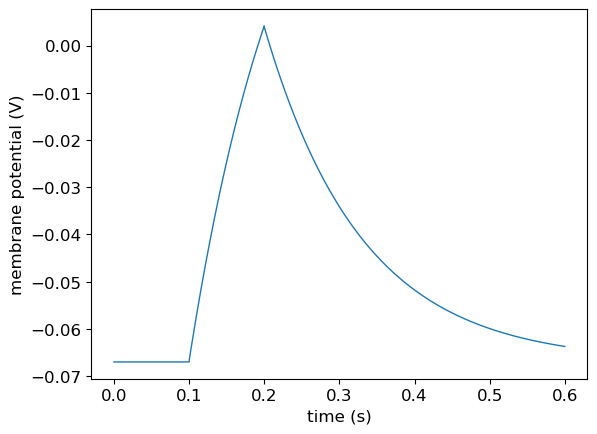
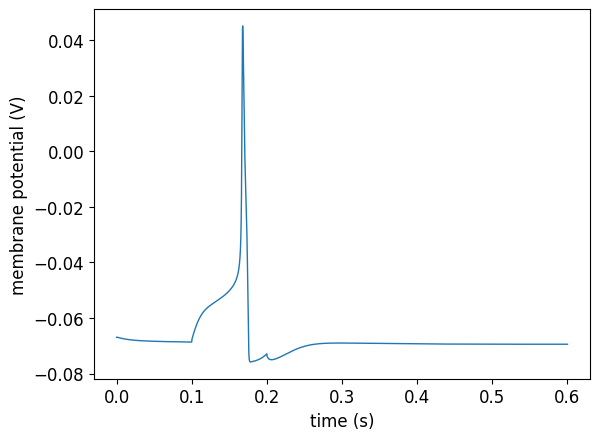
Some changes required to get olm cell to spike
segment groups weren't being constructed properly, the fault of neuron
mapping with use of neurolexids etc. will have to be made easier to use
post cns...
@sanjayankur31 the segment groups used for channel placement should only
be ones that only contain other segmentgroups, which in turn are marked
neuroLexId="sao864921383", which specifies "mapo this segmentgroup to a
neuron section"... messy...
it spikes now though...

diff --git a/source/Userdocs/NML2_examples/olm-example.py b/source/Userdocs/NML2_examples/olm-example.py
@@ -9,7 +9,8 @@ Author: Ankur Sinha <sanjay DOT ankur AT gmail DOT com>
 """
 
 from neuroml import (NeuroMLDocument, IncludeType, Population, PulseGenerator,
-                     ExplicitInput, Network, SegmentGroup, Member, Property)
+                     ExplicitInput, Network, SegmentGroup, Member, Property,
+                     Include)
 from CellBuilder import (create_cell, add_segment, add_channel_density,
                          set_init_memb_potential, set_resistivity,
                          set_specific_capacitance, get_seg_group_by_id)
@@ -169,19 +170,14 @@ def create_olm_cell():
                          group="axon_0")
 
     # Add 2 dendrite segments
+
     diam = 3.0
     dend_0_0 = add_segment(cell,
                            prox=[0.0, 20, 0.0, diam],
                            dist=[100, 120, 0.0, diam],
                            name="Seg0_dend_0",
                            parent=soma_1,
-                           fraction_along=0.0,
-                           group="dend_0")
-    dend_0_1 = add_segment(cell,
-                           prox=[0.0, 20, 0.0, diam],
-                           dist=[-100, 120, 0.0, diam],
-                           name="Seg0_dend_1",
-                           parent=soma_1,
+                           fraction_along=1,
                            group="dend_0")
 
     dend_1_0 = add_segment(cell,
@@ -189,23 +185,42 @@ def create_olm_cell():
                            dist=[177, 197, 0.0, diam],
                            name="Seg1_dend_0",
                            parent=dend_0_0,
-                           fraction_along=0.0,
+                           fraction_along=1,
+                           group="dend_0")
+
+
+
+    dend_0_1 = add_segment(cell,
+                           prox=[0.0, 20, 0.0, diam],
+                           dist=[-100, 120, 0.0, diam],
+                           name="Seg0_dend_1",
+                           parent=soma_1,
+                           fraction_along=1,
                            group="dend_1")
     dend_1_1 = add_segment(cell,
                            prox=None,
                            dist=[-177, 197, 0.0, diam],
                            name="Seg1_dend_1",
                            parent=dend_0_1,
-                           fraction_along=0.0,
+                           fraction_along=1,
                            group="dend_1")
 
+    for section_name in ["soma_0","axon_0","dend_0","dend_1"]:
+        section_group = get_seg_group_by_id(section_name, cell)
+        section_group.neuro_lex_id = 'sao864921383'
+
     den_seg_group = get_seg_group_by_id("dendrite_group", cell)
+    den_seg_group.includes.append(Include(segment_groups="dend_0"))
+    den_seg_group.includes.append(Include(segment_groups="dend_1"))
     den_seg_group.properties.append(Property(tag="color", value="0.8 0 0"))
 
     ax_seg_group = get_seg_group_by_id("axon_group", cell)
+    ax_seg_group.includes.append(Include(segment_groups="axon_0"))
     ax_seg_group.properties.append(Property(tag="color", value="0 0.8 0"))
 
     soma_seg_group = get_seg_group_by_id("soma_group", cell)
+    soma_seg_group.includes.append(Include(segment_groups="soma_0"))
+
     soma_seg_group.properties.append(Property(tag="color", value="0 0 0.8"))
 
     # Other cell properties
@@ -230,7 +245,7 @@ def create_olm_cell():
                         ion_chan_def_file="olm-example/HCNolm.channel.nml",
                         erev="-32.9mV",
                         ion="h",
-                        group="soma_0")
+                        group="soma_group")
     # Kdrfast_soma
     add_channel_density(cell, nml_cell_doc,
                         cd_id="Kdrfast_soma",
@@ -239,7 +254,7 @@ def create_olm_cell():
                         ion_chan_def_file="olm-example/Kdrfast.channel.nml",
                         erev="-77mV",
                         ion="k",
-                        group="soma_0")
+                        group="soma_group")
     # Kdrfast_dendrite
     add_channel_density(cell, nml_cell_doc,
                         cd_id="Kdrfast_dendrite",
@@ -257,7 +272,7 @@ def create_olm_cell():
                         ion_chan_def_file="olm-example/Kdrfast.channel.nml",
                         erev="-77mV",
                         ion="k",
-                        group="axon_0")
+                        group="axon_group")
     # KvAolm_soma
     add_channel_density(cell, nml_cell_doc,
                         cd_id="KvAolm_soma",
@@ -266,7 +281,7 @@ def create_olm_cell():
                         ion_chan_def_file="olm-example/KvAolm.channel.nml",
                         erev="-77mV",
                         ion="k",
-                        group="soma_0")
+                        group="soma_group")
     # KvAolm_dendrite
     add_channel_density(cell, nml_cell_doc,
                         cd_id="KvAolm_dendrite",
@@ -284,7 +299,7 @@ def create_olm_cell():
                         ion_chan_def_file="olm-example/Nav.channel.nml",
                         erev="50mV",
                         ion="na",
-                        group="soma_0")
+                        group="soma_group")
     # Nav_dendrite
     add_channel_density(cell, nml_cell_doc,
                         cd_id="Nav_dendrite",
@@ -302,7 +317,7 @@ def create_olm_cell():
                         ion_chan_def_file="olm-example/Nav.channel.nml",
                         erev="50mV",
                         ion="na",
-                        group="axon_0")
+                        group="axon_group")
 
     nml_cell_doc.cells.append(cell)
     pynml.write_neuroml2_file(nml_cell_doc, nml_cell_file, True, True)
